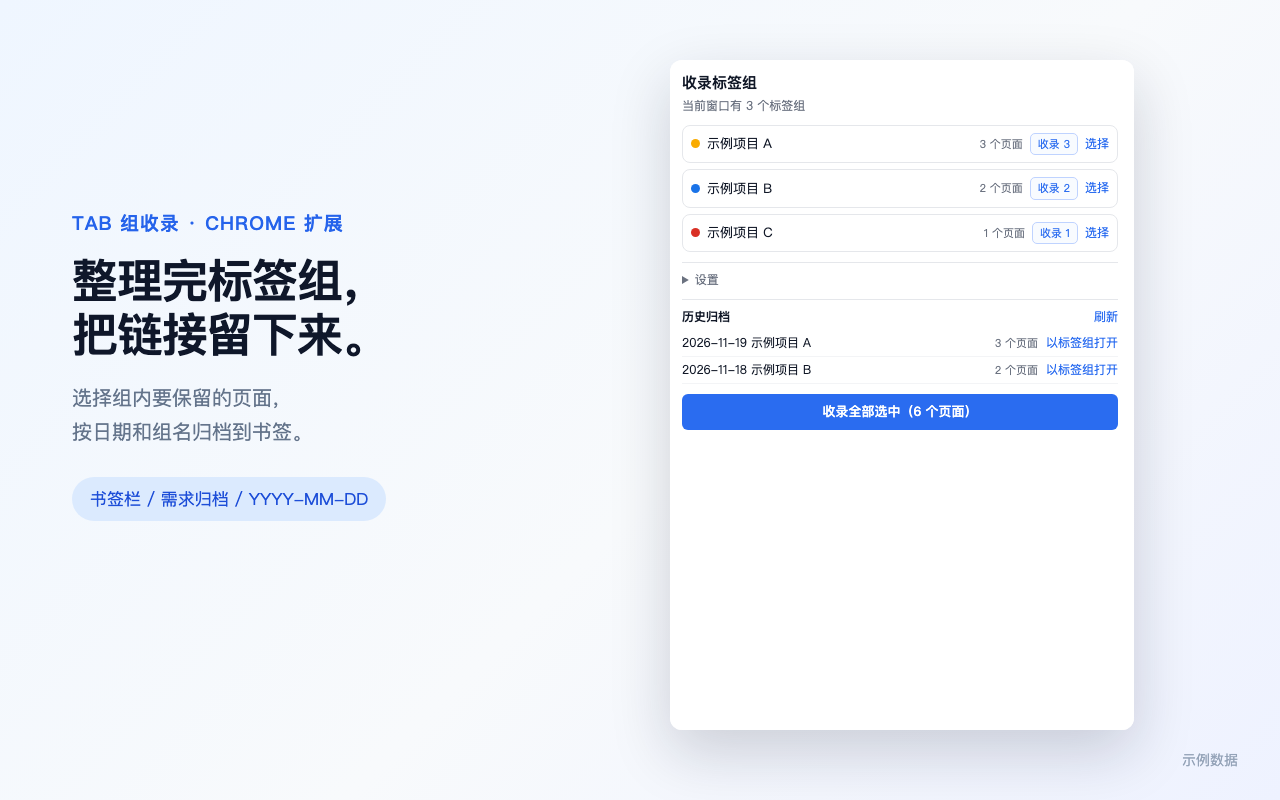
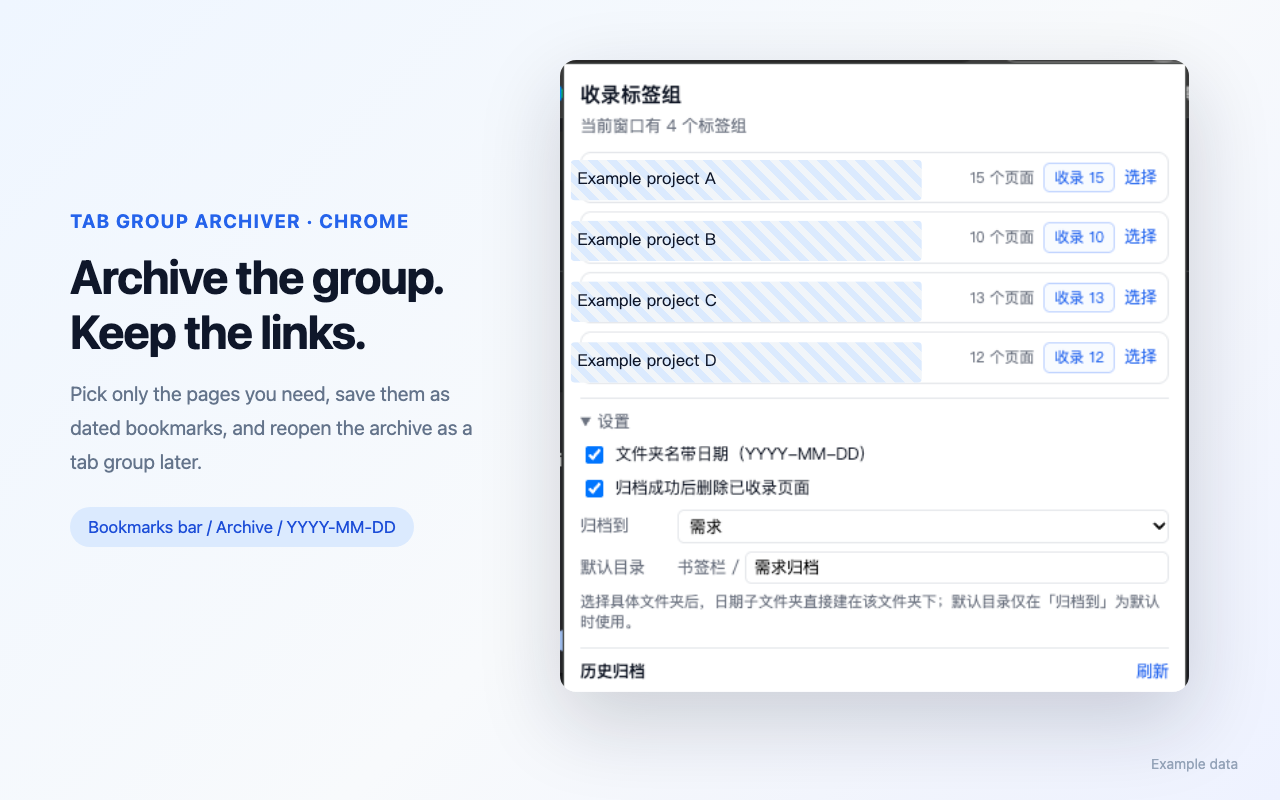
docs: add English readme and redacted hero screenshot

Changed region(s): [[0.4375, 0.0625, 0.9375, 0.9375], [0.0312, 0.25, 0.375, 0.6875], [0.9062, 0.9375, 0.9688, 0.9688]]

diff --git a/README.md b/README.md
@@ -1,98 +1,144 @@
-# Tab 组收录（Chrome 扩展）
+# Tab Group Archiver
 
-把当前窗口的标签组按**选中页面**收录成书签文件夹，按「日期 + 组名」归档。适合用标签组管理项目、需求或调研资料，整理完标签后仍能找回链接，也可以把归档文件夹重新打开成标签组。
+**Archive selected tabs from Chrome tab groups into dated bookmark folders — then reopen an archive as a tab group when you need it again.**
 
-- 纯本地、无网络请求、无第三方依赖
-- Chrome MV3，加载已解压目录即可使用
-- GitHub：[FinA1ee/chrome-tabgroup-bookmark](https://github.com/FinA1ee/chrome-tabgroup-bookmark)
+[中文说明](README.zh-CN.md) · [Latest release](https://github.com/FinA1ee/chrome-tabgroup-bookmark/releases/tag/v1.1.2) · [Privacy](PRIVACY.md) · [MIT License](LICENSE)
 
-## 功能
+![Tab Group Archiver](docs/screenshots/hero.png)
 
-- 展开标签组，勾选需要归档的页面，只收录选中的部分
-- 默认归档到 `书签栏 / 需求归档 / YYYY-MM-DD 组名 /`
-- 也可以选择书签栏下的任意具体文件夹作为归档父目录
-- 同名文件夹复用、同 URL 去重，重复点击安全
-- 归档成功后默认删除本次已收录的页面；未选页面保留
-- 有书签写入失败时不删除任何页面
-- 历史归档可一键重新打开为标签组，组名使用归档文件夹名
-- 设置可改：默认目录名、是否带日期前缀、是否删除已收录页面
+Chrome tab groups are great for active work but easy to lose after a project ends. Tab Group Archiver turns a group into a bookmark folder before you close it:
 
-## 安装
+```text
+Bookmarks bar / Archive / 2026-11-19 Project name
+```
 
-1. 打开 `chrome://extensions`
-2. 右上角打开「开发者模式」
-3. 点「加载已解压的扩展程序」，选择本目录
-4. 在工具栏把「Tab 组收录」固定出来
+The extension is local-only: no account, no backend, no analytics, no network requests.
 
-修改代码后，在 `chrome://extensions` 点扩展卡片上的刷新按钮，再重新打开弹窗。
+## Features
 
-## 用法
+- **Pick only the tabs you need.** Expand a group and uncheck pages you do not want to keep.
+- **Dated archive folders.** The default layout is `Bookmarks bar / Archive / YYYY-MM-DD Group name`.
+- **Choose a destination.** Use the default archive folder or any existing bookmark folder.
+- **Safe to repeat.** Existing folders are reused and duplicate URLs are skipped.
+- **Delete after archiving.** On by default: only successfully archived, selected tabs are closed. Unselected tabs and failed writes are kept.
+- **Reopen an archive as a tab group.** The history list can recreate the pages and group them under the original folder name.
+- **Popup-safe writes.** Bookmark writes run in the MV3 service worker, so closing the popup does not stop an archive already in progress.
 
-1. 点扩展图标，弹窗列出当前窗口的标签组。
-2. 点「选择页面」，取消不需要归档的页面。
-3. 选择单个组的「收录选中 N」，或底部「收录全部选中」。
-4. 到书签栏/目标文件夹检查归档；弹窗结果会显示新增、跳过、失败和是否删除页面。
-5. 需要找回时，在「历史归档」里点「以标签组打开」。
+![Select pages to archive](docs/screenshots/selection.png)
 
-## 行为说明
+## Install
 
-- 只收录 `http/https/file/ftp` 页面；`chrome://`、`chrome-extension://`、`devtools://` 等会跳过并计入「跳过」
-- 同一归档文件夹里已经存在的 URL 不会重复添加
-- 多个收录请求会排队执行，避免并发创建同名文件夹或重复书签
-- 组名为空时用「未命名组」
-- 文件夹名里的 `/ \ : * ? " < > |` 会换成全角
-- 归档目录是单层文件夹；选择具体文件夹后，日期子文件夹直接落在该文件夹下
-- 删除页面是默认行为，但只删除本次成功归档的页面；有失败时全部保留
-- 重新打开归档时，书签会变成当前窗口的新标签页并组成标签组；组颜色使用 Chrome 默认颜色
+The UI is currently in Chinese; English localization is planned.
 
-## 测试
+1. Download the latest ZIP from [Releases](https://github.com/FinA1ee/chrome-tabgroup-bookmark/releases).
+2. Unzip it anywhere.
+3. Open `chrome://extensions`.
+4. Enable **Developer mode**.
+5. Click **Load unpacked** and select the unzipped folder.
+6. Pin **Tab Group Archiver** to the toolbar.
+
+No build step and no package installation are required. The repository itself can also be loaded as an unpacked extension.
+
+## Usage
+
+1. Click the extension icon. It lists tab groups in the current window.
+2. Click **选择** (Select) to expand a group.
+3. Uncheck pages you do not want to archive.
+4. Click **收录 N** (Archive N) for one group, or **收录全部选中** (Archive all selected) for all groups.
+5. Check the bookmark folder and the result summary.
+6. To restore an archive, open **历史归档** (Archive history) and click **以标签组打开** (Open as tab group).
+
+### What gets skipped
+
+- `chrome://`, `chrome-extension://`, `devtools://` and other non-web pages
+- URLs that already exist in the target folder
+- A tab whose URL is not available yet
+
+### Behavior notes
+
+- `file://` pages require **Allow access to file URLs** in the extension details.
+- Archive folders and dated group folders are direct children; the extension does not create multi-level paths.
+- Reopened groups use Chrome's default group color; the folder name is restored as the group title.
+- URL deduplication is exact: query strings and hashes are not normalized.
+- A failed bookmark write prevents automatic page deletion for that group.
+
+## Permissions
+
+| Permission | Why it is needed |
+|---|---|
+| `tabs` | Read tab titles/URLs and create tabs when reopening an archive |
+| `tabGroups` | Read group names and create/update tab groups |
+| `bookmarks` | Create and read archive folders and bookmarks |
+| `storage` | Save archive destination and behavior settings |
+
+There are **no host permissions**, no content scripts, and no remote code.
+
+## Architecture
+
+```text
+Popup (popup.html / popup.css / popup.js)
+  ├─ lists groups and tabs
+  ├─ manages selection and settings
+  └─ sends runtime messages
+          │
+          ▼
+Service worker (background.js)
+  ├─ validates and queues archive requests
+  ├─ creates/reuses bookmark folders
+  ├─ deduplicates URLs
+  ├─ deletes only successfully archived tabs
+  └─ reopens bookmark folders as tab groups
+          │
+          ▼
+Chrome APIs: tabs · tabGroups · bookmarks · storage
+```
+
+Why a service worker? A popup is destroyed when it loses focus. Moving bookmark writes into the extension service worker makes an archive that has already started much less likely to be interrupted. The worker can still be terminated when idle, so the implementation also uses a serialized queue, URL deduplication, and a no-delete-on-failure rule.
+
+The shared pure functions live in [`lib.js`](lib.js); the design rationale is in [`design.md`](design.md).
+
+## Data and privacy
+
+Only one settings object is stored locally:
+
+```js
+{
+  rootFolder: "Archive",
+  destinationFolderId: null,
+  datePrefix: true,
+  closeAfterSave: true
+}
+```
+
+- Settings use `chrome.storage.local` and are not synced across devices.
+- Bookmarks are Chrome's native bookmark data and follow the user's Chrome Sync settings.
+- Selection state, the queue, and the current result stay in memory only.
+- No localStorage, IndexedDB, cookies, or network requests are used.
+
+See [PRIVACY.md](PRIVACY.md) for details.
+
+## Development
 
 ```sh
 npm test
-```
-
-两组测试：
-
-- `test.mjs`：命名、过滤、汇总等纯逻辑
-- `test-background.mjs`：mock `chrome.*`，覆盖部分选择、去重、目标文件夹、失败保护、自动删除和重新打开
-
-语法检查：
-
-```sh
 node --check popup.js
 node --check lib.js
 node --check background.js
 ```
 
-## 权限
+Test coverage:
 
-| 权限 | 用途 |
-|---|---|
-| `tabs` | 读取标签组页面标题/URL；重新打开归档时创建标签页 |
-| `tabGroups` | 读取标签组；重新打开归档时成组 |
-| `bookmarks` | 创建/读取归档文件夹和书签 |
-| `storage` | 保存归档位置和开关设置 |
+- `test.mjs`: date formatting, folder-name sanitization, URL filtering, summaries
+- `test-background.mjs`: mocked Chrome APIs for selection, destination folders, deduplication, failure handling, auto-delete, and reopening archives
 
-没有 `host_permissions`，不注入页面脚本，不读取网页内容，不发起网络请求。详见 [PRIVACY.md](PRIVACY.md)。
+GitHub Actions runs both tests and syntax checks on every push.
 
-## 发布
+## Release
 
-- 扩展目录就是发布目录，无需构建；商店上传时可压缩本目录，排除测试文件和仓库元数据。
-- 最新 Release：[v1.1.2](https://github.com/FinA1ee/chrome-tabgroup-bookmark/releases/tag/v1.1.2)
-- 设计说明：[design.md](design.md)
-- 任务拆解：[tasks.md](tasks.md)
-- 隐私说明：[PRIVACY.md](PRIVACY.md)
-- 商店材料：[STORE.md](STORE.md)
-- 商店截图：[01-groups.png](store/screenshots/01-groups.png)、[02-selection.png](store/screenshots/02-selection.png)
+- [v1.1.2](https://github.com/FinA1ee/chrome-tabgroup-bookmark/releases/tag/v1.1.2)
+- Store copy and screenshot checklist: [STORE.md](STORE.md)
+- Chrome Web Store submission is pending a developer account review.
 
 ## License
 
 [MIT](LICENSE)
-
-## 已知边界
-
-- 只处理当前窗口的标签组，不跨窗口合并
-- `file://` 页面需要在扩展详情里开启「允许访问文件网址」
-- 书签去重按 URL 原文比较，不合并仅 query/hash 不同的链接
-- 重新打开归档不恢复标签组颜色，只恢复组名
-- 归档目录和日期组文件夹都是直接子级，不创建多级路径

diff --git a/README.zh-CN.md b/README.zh-CN.md
@@ -1,0 +1,100 @@
+# Tab 组收录（Chrome 扩展）
+
+[English README](README.md)
+
+把当前窗口的标签组按**选中页面**收录成书签文件夹，按「日期 + 组名」归档。适合用标签组管理项目、需求或调研资料，整理完标签后仍能找回链接，也可以把归档文件夹重新打开成标签组。
+
+- 纯本地、无网络请求、无第三方依赖
+- Chrome MV3，加载已解压目录即可使用
+- GitHub：[FinA1ee/chrome-tabgroup-bookmark](https://github.com/FinA1ee/chrome-tabgroup-bookmark)
+
+## 功能
+
+- 展开标签组，勾选需要归档的页面，只收录选中的部分
+- 默认归档到 `书签栏 / 需求归档 / YYYY-MM-DD 组名 /`
+- 也可以选择书签栏下的任意具体文件夹作为归档父目录
+- 同名文件夹复用、同 URL 去重，重复点击安全
+- 归档成功后默认删除本次已收录的页面；未选页面保留
+- 有书签写入失败时不删除任何页面
+- 历史归档可一键重新打开为标签组，组名使用归档文件夹名
+- 设置可改：默认目录名、是否带日期前缀、是否删除已收录页面
+
+## 安装
+
+1. 打开 `chrome://extensions`
+2. 右上角打开「开发者模式」
+3. 点「加载已解压的扩展程序」，选择本目录
+4. 在工具栏把「Tab 组收录」固定出来
+
+修改代码后，在 `chrome://extensions` 点扩展卡片上的刷新按钮，再重新打开弹窗。
+
+## 用法
+
+1. 点扩展图标，弹窗列出当前窗口的标签组。
+2. 点「选择页面」，取消不需要归档的页面。
+3. 选择单个组的「收录选中 N」，或底部「收录全部选中」。
+4. 到书签栏/目标文件夹检查归档；弹窗结果会显示新增、跳过、失败和是否删除页面。
+5. 需要找回时，在「历史归档」里点「以标签组打开」。
+
+## 行为说明
+
+- 只收录 `http/https/file/ftp` 页面；`chrome://`、`chrome-extension://`、`devtools://` 等会跳过并计入「跳过」
+- 同一归档文件夹里已经存在的 URL 不会重复添加
+- 多个收录请求会排队执行，避免并发创建同名文件夹或重复书签
+- 组名为空时用「未命名组」
+- 文件夹名里的 `/ \ : * ? " < > |` 会换成全角
+- 归档目录是单层文件夹；选择具体文件夹后，日期子文件夹直接落在该文件夹下
+- 删除页面是默认行为，但只删除本次成功归档的页面；有失败时全部保留
+- 重新打开归档时，书签会变成当前窗口的新标签页并组成标签组；组颜色使用 Chrome 默认颜色
+
+## 测试
+
+```sh
+npm test
+```
+
+两组测试：
+
+- `test.mjs`：命名、过滤、汇总等纯逻辑
+- `test-background.mjs`：mock `chrome.*`，覆盖部分选择、去重、目标文件夹、失败保护、自动删除和重新打开
+
+语法检查：
+
+```sh
+node --check popup.js
+node --check lib.js
+node --check background.js
+```
+
+## 权限
+
+| 权限 | 用途 |
+|---|---|
+| `tabs` | 读取标签组页面标题/URL；重新打开归档时创建标签页 |
+| `tabGroups` | 读取标签组；重新打开归档时成组 |
+| `bookmarks` | 创建/读取归档文件夹和书签 |
+| `storage` | 保存归档位置和开关设置 |
+
+没有 `host_permissions`，不注入页面脚本，不读取网页内容，不发起网络请求。详见 [PRIVACY.md](PRIVACY.md)。
+
+## 发布
+
+- 扩展目录就是发布目录，无需构建；商店上传时可压缩本目录，排除测试文件和仓库元数据。
+- 最新 Release：[v1.1.2](https://github.com/FinA1ee/chrome-tabgroup-bookmark/releases/tag/v1.1.2)
+- 设计说明：[design.md](design.md)
+- 任务拆解：[tasks.md](tasks.md)
+- 隐私说明：[PRIVACY.md](PRIVACY.md)
+- 商店材料：[STORE.md](STORE.md)
+- 商店截图：[01-groups.png](store/screenshots/01-groups.png)、[02-selection.png](store/screenshots/02-selection.png)
+
+## License
+
+[MIT](LICENSE)
+
+## 已知边界
+
+- 只处理当前窗口的标签组，不跨窗口合并
+- `file://` 页面需要在扩展详情里开启「允许访问文件网址」
+- 书签去重按 URL 原文比较，不合并仅 query/hash 不同的链接
+- 重新打开归档不恢复标签组颜色，只恢复组名
+- 归档目录和日期组文件夹都是直接子级，不创建多级路径
